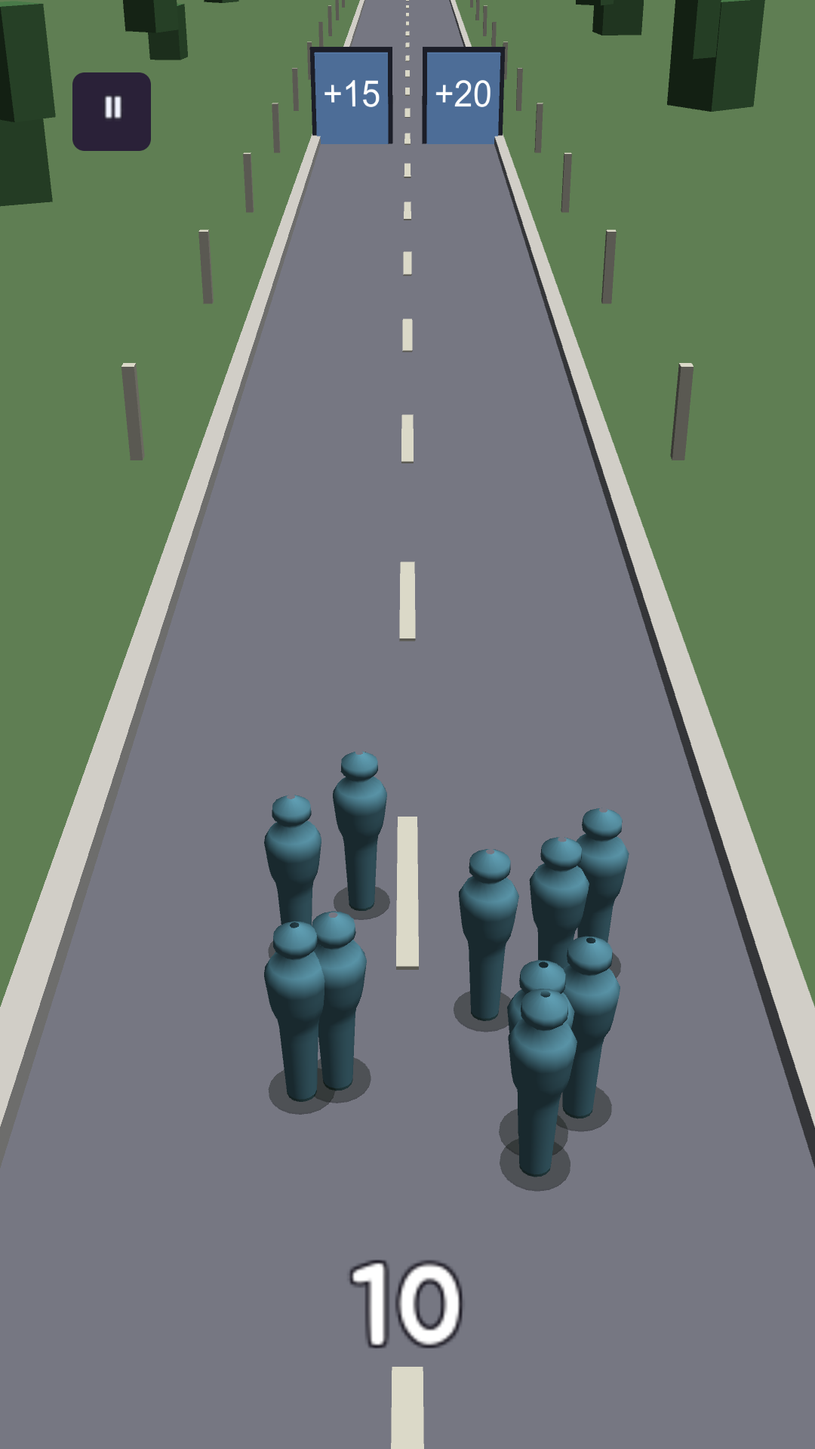
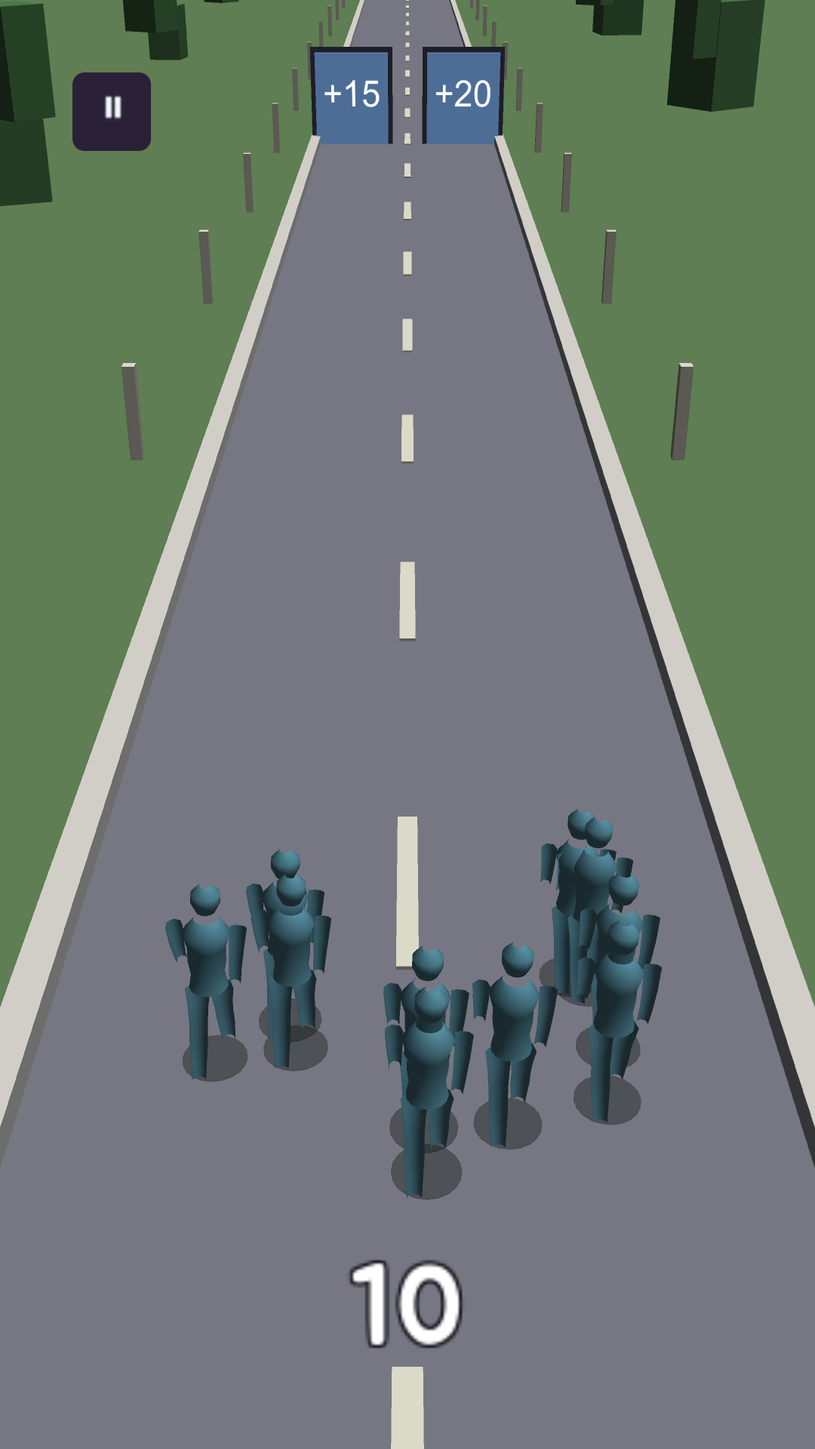
feat(m0): the stand-in can walk now — it has legs
세션 A 가 한 명을 6 배로 확대해서 잡았다: **팔도 다리도 없다.** 머리 → 어깨 →
한 덩어리 기둥이었다. 그러니 "걷는 게 안 보인다" 가 아니라 **걸을 수가 없었다** —
움직일 팔다리가 없으니 애니메이션을 붙일 자리 자체가 없었다.

원인은 골격이었다. 본 20 개가 **한 줄 사슬**(b0→b1→…)이라 가지를 칠 수 없었다.

## 가지 치는 골격

척추 5 · 다리 2×3 · 팔 2×3 · 여분 3 = **본 20 그대로**. 여분 셋은 정점이 안
묶이지만 커브는 준다 — 커브 없는 본은 평가되지 않아 측정이 더 싼 클립을 잰다(§7).

메시는 다섯 조각(몸통·머리·다리 둘·팔 둘)으로 짓고, **정점 282** 로 예산(300)
안이다. 처음엔 320 이 나왔다 — 반올림 때문에 한 번에 안 맞아서, 넘으면 배율을
줄여 다시 짓게 했다. M0_CROWD 의 상한이 그 수에 걸려 있어 짐작으로 둘 수 없다.

클립은 팔다리가 **엇갈린다**: 왼다리가 앞이면 오른팔이 앞. 그 교차 하나가
*걷는 것*과 *미끄러지는 것*을 가른다.

## 확대 사진이 세 번 답했다

① 군중 사진으로는 "뭔가 이상하다" 까지만 보였다. 확대하니 **팔이 몸통 안에**
   있었다 — 어깨를 x=±0.23 에 뒀는데 가슴 반지름이 0.25 였다. 밖으로 삐져나온
   조각이 화면에서는 *망토* 로 보였다. ±0.27 로 뺐다
② 몸통이 거의 일정한 반지름이라 **자루**였다. 허리를 줬다
③ 머리 반지름 0.15 = 지름 0.30 m 는 키 1.86 m 에 과했다. 0.125 로

그래서 `unit_closeup.png` 를 매번 찍는다. 군중 사진에서 사람은 늘 10 px 짜리라
**고쳤는지 망가뜨렸는지가 거기선 안 보인다.**

> 세션 A 가 먼저 화소로 재려 했다 — 0.12 초 간격 다섯 장에서 사람 화소가
> 110~150 % 바뀌었다. 그런데 그건 몸이 통째로 전진해서지 다리가 움직여서가
> 아니다. **그 측정으로는 둘을 못 가린다.** 확대 한 장이 바로 답했다.

첫 촬영은 떼 한가운데 2.4 m 앞에 뒀다가 **다른 사람 몸 속**이 나왔다 —
떼가 ±1.8 m 로 퍼져 있으니 그 안은 전부 누군가의 안이다. 길 옆 6.5 m 로 뺐고,
옆모습이 팔다리 교차를 보기에도 맞는 각도다.

5/5 통과 · 웹 빌드 10 MB

Changed region(s): [[0.1833, 0.5, 0.825, 0.8438]]

diff --git a/Assets/_Game/Scripts/Editor/M0Assets.cs b/Assets/_Game/Scripts/Editor/M0Assets.cs
@@ -63,12 +63,6 @@ namespace CrowdRunner.EditorTools
         }
 
         /// <summary>
-        /// 본 하나를 한 층으로 보는 **원통 사슬**. 층마다 고리 하나, 고리의 정점은 **그 층 본에
-        /// 100 % 로 묶는다** — 스킨닝 비용은 가중치의 **수**가 정하므로(정점당 1 개) 가중치 1 개가
-        /// 가장 싼 쪽이다. 즉 이 측정은 **실제보다 유리하다**: 출하 아트가 정점당 2~4 가중치를 쓰면
-        /// 더 비싸진다. 그래서 §4 의 통과선에 여유(절반 예산)를 둔 것이고, 그 여유의 일부가 이것이다.
-        /// </summary>
-        /// <summary>
         /// **길 표식과 발밑 그림자의 머티리얼을 에셋으로 굽는다.**
         ///
         /// 런타임에 `new Material(Shader.Find(...))` 로 만들고 `enableInstancing = true` 를
@@ -108,136 +102,250 @@ namespace CrowdRunner.EditorTools
             Debug.Log($"[M0] baked material {name}.mat instancing={mat.enableInstancing}");
         }
 
+        /// <summary>
+        /// **골격.** 전에는 본 20 개가 **한 줄 사슬**(b0→b1→…)이었다 — 그래서 각 본을 조금씩
+        /// 돌리면 *흔들리는 기둥*이 나왔고, **팔다리를 붙일 자리가 구조적으로 없었다.**
+        /// 세션 A 가 한 명을 6 배로 확대해서 잡았다: *"걷는 게 안 보이는 게 아니라 걸을 수가 없다."*
+        ///
+        /// 이제 가지를 친다 — 척추 · 다리 둘 · 팔 둘. **본 수는 20 그대로**라
+        /// `docs/M0_CROWD.md` 의 상한(정점 300/1,500 · 본 20)이 그대로 유효하다. 모양을 고치면서
+        /// 비용을 올리면 그 표를 다시 재야 하고, 그러면 아트 예산의 근거가 사라진다.
+        ///
+        /// 17~19 는 **일부러 남긴 여분**이다. 정점이 하나도 안 묶이지만 커브는 준다 — §7 의
+        /// 규칙이 *"커브 없는 본은 평가되지 않아 측정이 더 싼 클립을 잰다"* 이기 때문이다.
+        /// </summary>
+        struct BoneDef { public string name; public int parent; public Vector3 off; }
+
+        static readonly BoneDef[] Rig =
+        {
+            new BoneDef { name = "hips",   parent = -1, off = new Vector3(0f, 0.86f, 0f) },
+            new BoneDef { name = "spine",  parent = 0,  off = new Vector3(0f, 0.22f, 0f) },
+            new BoneDef { name = "chest",  parent = 1,  off = new Vector3(0f, 0.26f, 0f) },
+            new BoneDef { name = "neck",   parent = 2,  off = new Vector3(0f, 0.20f, 0f) },
+            new BoneDef { name = "head",   parent = 3,  off = new Vector3(0f, 0.14f, 0f) },
+
+            new BoneDef { name = "lhip",   parent = 0,  off = new Vector3(-0.10f, -0.04f, 0f) },
+            new BoneDef { name = "lknee",  parent = 5,  off = new Vector3(0f, -0.42f, 0f) },
+            new BoneDef { name = "lfoot",  parent = 6,  off = new Vector3(0f, -0.36f, 0f) },
+            new BoneDef { name = "rhip",   parent = 0,  off = new Vector3(0.10f, -0.04f, 0f) },
+            new BoneDef { name = "rknee",  parent = 8,  off = new Vector3(0f, -0.42f, 0f) },
+            new BoneDef { name = "rfoot",  parent = 9,  off = new Vector3(0f, -0.36f, 0f) },
+
+            // 어깨는 **몸통 반지름 밖**에 둔다. 0.23 이었는데 가슴 반지름이 0.25 라 팔이
+            // 몸 **안쪽**에 묻혔다 — 화면에서는 몸통 밖으로 삐져나온 조각이 *망토* 처럼 보였다
+            new BoneDef { name = "lsh",    parent = 2,  off = new Vector3(-0.27f, 0.12f, 0f) },
+            new BoneDef { name = "lelb",   parent = 11, off = new Vector3(0f, -0.28f, 0f) },
+            new BoneDef { name = "lhand",  parent = 12, off = new Vector3(0f, -0.26f, 0f) },
+            new BoneDef { name = "rsh",    parent = 2,  off = new Vector3(0.27f, 0.12f, 0f) },
+            new BoneDef { name = "relb",   parent = 14, off = new Vector3(0f, -0.28f, 0f) },
+            new BoneDef { name = "rhand",  parent = 15, off = new Vector3(0f, -0.26f, 0f) },
+
+            new BoneDef { name = "x0",     parent = 0,  off = Vector3.zero },
+            new BoneDef { name = "x1",     parent = 17, off = Vector3.zero },
+            new BoneDef { name = "x2",     parent = 18, off = Vector3.zero },
+        };
+
+        /// <summary>쉬는 자세에서 본이 서 있는 **월드 좌표**. 바인드포즈와 메시가 둘 다 이것을 쓴다</summary>
+        static Vector3[] RestPositions()
+        {
+            var p = new Vector3[Rig.Length];
+            for (int i = 0; i < Rig.Length; i++)
+                p[i] = Rig[i].parent < 0 ? Rig[i].off : p[Rig[i].parent] + Rig[i].off;
+            return p;
+        }
+
+        /// <summary>
+        /// 몸을 **다섯 조각**으로 짓는다 — 몸통 · 머리 · 다리 둘 · 팔 둘. 조각마다 고리를 쌓은
+        /// 원통이고, 고리의 정점은 **그 높이에 해당하는 본에 100 % 로** 묶는다 (정점당 가중치 1 —
+        /// 스킨닝 비용은 가중치의 수가 정한다).
+        ///
+        /// 목표 정점 수(`want`)에 맞춰 고리 수와 층 수를 **같은 비율로** 키운다. 정점은 둘의
+        /// 곱이므로 배율은 `sqrt(want / 기준)` 이다.
+        /// </summary>
         static Mesh BuildSkinnedMesh(int want, out string[] boneNames, out Matrix4x4[] binds)
         {
-            int ring = Mathf.Max(3, want / Bones);          // 층마다 정점 수
-            int rows = Bones;
-            var verts = new Vector3[ring * rows];
-            var norms = new Vector3[verts.Length];
-            var weights = new BoneWeight[verts.Length];
-            boneNames = new string[rows];
-            binds = new Matrix4x4[rows];
+            boneNames = new string[Rig.Length];
+            for (int i = 0; i < Rig.Length; i++) boneNames[i] = Rig[i].name;
+            var rest = RestPositions();
+            binds = new Matrix4x4[Rig.Length];
+            for (int i = 0; i < Rig.Length; i++) binds[i] = Matrix4x4.Translate(-rest[i]);
 
-            float height = 1.8f;
-            for (int r = 0; r < rows; r++)
+            var verts = new System.Collections.Generic.List<Vector3>(want + 64);
+            var weights = new System.Collections.Generic.List<BoneWeight>(want + 64);
+            var tris = new System.Collections.Generic.List<int>(want * 6);
+
+            // **예산을 넘기지 않는다.** 반올림 때문에 한 번에 안 맞는다 — 300 을 달라고 했는데
+            // 320 이 나왔고, `M0_CROWD` 의 상한(300/1,500)이 그 수에 걸려 있다. 넘으면 **줄여
+            // 다시 짓는다**: 짐작한 배율을 쓰는 것보다 세어 보는 쪽이 확실하다
+            float k = Mathf.Clamp(Mathf.Sqrt(want / 226f), 0.5f, 6f);
+            for (int tries = 0; tries < 20; tries++)
             {
-                float t = r / (float)(rows - 1);
-                float y = t * height;
-                float rad = Radius(t);
-                boneNames[r] = "b" + r;
-                binds[r] = Matrix4x4.TRS(new Vector3(0f, -y, 0f), Quaternion.identity, Vector3.one);
-                for (int c = 0; c < ring; c++)
-                {
-                    float a = c / (float)ring * Mathf.PI * 2f;
-                    int k = r * ring + c;
-                    verts[k] = new Vector3(Mathf.Cos(a) * rad, y, Mathf.Sin(a) * rad);
-                    norms[k] = new Vector3(Mathf.Cos(a), 0f, Mathf.Sin(a));   // 아래에서 다시 센다
-                    weights[k] = new BoneWeight { boneIndex0 = r, weight0 = 1f };
-                }
-            }
+                verts.Clear(); weights.Clear(); tris.Clear();
+                float kk = k;
+                int R(int n) => Mathf.Max(4, Mathf.RoundToInt(n * kk));
 
-            var tris = new System.Collections.Generic.List<int>((rows - 1) * ring * 6);
-            for (int r = 0; r < rows - 1; r++)
-                for (int c = 0; c < ring; c++)
+                // 몸통 — 골반에서 목까지. 어깨에서 가장 넓다
+                Part(verts, weights, tris, R(12), R(5), rest[0], rest[3],
+                     new[] { 0, 0, 1, 2, 3 }, new[] { 0.17f, 0.145f, 0.165f, 0.205f, 0.105f });
+                // 머리 — 목 위의 공
+                Part(verts, weights, tris, R(12), R(4), rest[4] + new Vector3(0f, -0.06f, 0f),
+                     rest[4] + new Vector3(0f, 0.20f, 0f),
+                     new[] { 4, 4, 4, 4 }, new[] { 0.085f, 0.125f, 0.125f, 0.05f });
+                // 다리 둘 — 엉덩이에서 발까지
+                for (int sgn = 0; sgn < 2; sgn++)
                 {
-                    int c2 = (c + 1) % ring;
-                    int a = r * ring + c, b = r * ring + c2, d = (r + 1) * ring + c, e = (r + 1) * ring + c2;
-                    tris.Add(a); tris.Add(d); tris.Add(b);
-                    tris.Add(b); tris.Add(d); tris.Add(e);
+                    int h = sgn == 0 ? 5 : 8;
+                    Part(verts, weights, tris, R(7), R(5), rest[h], rest[h + 2] + new Vector3(0f, -0.04f, 0f),
+                         new[] { h, h, h + 1, h + 1, h + 2 }, new[] { 0.11f, 0.09f, 0.08f, 0.07f, 0.06f });
                 }
+                // 팔 둘 — 어깨에서 손까지
+                for (int sgn = 0; sgn < 2; sgn++)
+                {
+                    int sh = sgn == 0 ? 11 : 14;
+                    Part(verts, weights, tris, R(6), R(4), rest[sh], rest[sh + 2] + new Vector3(0f, -0.04f, 0f),
+                         new[] { sh, sh, sh + 1, sh + 2 }, new[] { 0.075f, 0.065f, 0.055f, 0.05f });
+                }
+
+                if (verts.Count <= want) break;
+                k *= 0.96f;
+            }
+            if (verts.Count > want)
+                Debug.LogError($"[M0] 정점이 {verts.Count} 로 예산 {want} 를 넘는다 — M0 표의 상한이 깨진다");
 
             var m = new Mesh { name = "standin" };
             m.indexFormat = UnityEngine.Rendering.IndexFormat.UInt16;
-            m.vertices = verts; m.normals = norms; m.boneWeights = weights;
-            m.triangles = tris.ToArray();
-            // **법선을 다시 센다.** 위에서 넣은 것은 전부 **수평**(`y = 0`)이다. 그런데 셰이더의
-            // 빛은 위에서 내려오므로(`(0.3, 1.0, -0.2)`), 수평 법선은 어디서나 `dot ≈ 0.3` 이고
-            // **몸 전체가 가장 어두운 값**으로 칠해진다. 첫 게임 화면에서 군중이 커피콩처럼
-            // 보인 것의 절반이 이것이었다 — 실루엣만 고쳤으면 모양은 사람인데 여전히 까맸다.
-            //
-            // 측정에는 영향이 없다: 법선은 굽는 쪽이 아니라 원본 메시의 것을 셰이더가 그대로
-            // 쓰고(`CrowdVat` 주석), 정점 수도 본 수도 그대로다
+            m.SetVertices(verts);
+            m.boneWeights = weights.ToArray();
+            m.SetTriangles(tris, 0);
+            // 법선은 **수평이 아니라** 실제 면에서 센다. 전부 수평이면 위에서 내려오는 빛과
+            // 늘 같은 각이라 **몸 전체가 가장 어두운 값**으로 칠해진다 (2026-10-09 에 겪었다)
             m.RecalculateNormals();
             m.bindposes = binds;
             m.RecalculateBounds();
             return m;
         }
 
-        /// <summary>
-        /// **사람으로 읽히는 옆모습.** 전에는 `Lerp(0.16, 0.26, sin(t·π))` — 허리에서 굵고
-        /// 위아래로 가늘어지는 **방추형**이었고, 화면에서 커피콩으로 보였다. 머리가 없으면
-        /// 사람으로 안 읽힌다. 그게 전부다.
-        ///
-        /// **정점 수도 본 수도 안 바뀐다** — 자리만 옮긴다. 그래서 `docs/M0_CROWD.md` 의
-        /// 측정치(방식 B · 저폴리 300 정점 · 상한 400)는 **그대로 유효하다.** 모양을 고치면서
-        /// 비용을 같이 올리면 그 표를 다시 재야 하고, 그러면 아트 예산의 근거가 사라진다.
-        ///
-        /// 행이 20 개(= 본 수)라 한 행이 키의 5 % 다. 머리·목·어깨가 그 해상도에 들어가도록
-        /// 구간을 잡았다 — 더 잘게 나누면 정점이 늘어난다.
-        /// </summary>
-        static float Radius(float t)
+        /// <summary>원통 한 조각. `boneOf`/`radius` 는 층을 **비율로** 읽으므로 길이가 달라도 된다</summary>
+        static void Part(System.Collections.Generic.List<Vector3> verts,
+                         System.Collections.Generic.List<BoneWeight> weights,
+                         System.Collections.Generic.List<int> tris,
+                         int ring, int rows, Vector3 from, Vector3 to, int[] boneOf, float[] radius)
         {
-            if (t < 0.46f) return Mathf.Lerp(0.13f, 0.17f, t / 0.46f);          // 다리
-            if (t < 0.54f) return Mathf.Lerp(0.17f, 0.23f, (t - 0.46f) / 0.08f); // 골반
-            if (t < 0.74f) return Mathf.Lerp(0.23f, 0.27f, (t - 0.54f) / 0.20f); // 몸통
-            if (t < 0.80f) return Mathf.Lerp(0.27f, 0.21f, (t - 0.74f) / 0.06f); // 어깨
-            if (t < 0.85f) return 0.10f;                                          // 목
-            // 머리 — 구에 가깝게. 정수리에서 0 으로 닫지 않는다 (한 행이 5 % 라 각져 보인다)
-            float u = (t - 0.85f) / 0.15f;                                        // 0..1
-            return 0.19f * Mathf.Sqrt(Mathf.Max(0.04f, 1f - (u - 0.45f) * (u - 0.45f) / 0.30f));
+            ring = Mathf.Max(4, ring);
+            rows = Mathf.Max(2, rows);
+            int baseIndex = verts.Count;
+            for (int r = 0; r < rows; r++)
+            {
+                float t = rows == 1 ? 0f : r / (float)(rows - 1);
+                var c = Vector3.Lerp(from, to, t);
+                int b = boneOf[Mathf.Clamp(Mathf.RoundToInt(t * (boneOf.Length - 1)), 0, boneOf.Length - 1)];
+                float rad = radius[Mathf.Clamp(Mathf.RoundToInt(t * (radius.Length - 1)), 0, radius.Length - 1)];
+                for (int i = 0; i < ring; i++)
+                {
+                    float a = i / (float)ring * Mathf.PI * 2f;
+                    verts.Add(c + new Vector3(Mathf.Cos(a) * rad, 0f, Mathf.Sin(a) * rad));
+                    weights.Add(new BoneWeight { boneIndex0 = b, weight0 = 1f });
+                }
+            }
+            for (int r = 0; r < rows - 1; r++)
+                for (int i = 0; i < ring; i++)
+                {
+                    int i2 = (i + 1) % ring;
+                    int a = baseIndex + r * ring + i, b2 = baseIndex + r * ring + i2;
+                    int d = baseIndex + (r + 1) * ring + i, e = baseIndex + (r + 1) * ring + i2;
+                    tris.Add(a); tris.Add(d); tris.Add(b2);
+                    tris.Add(b2); tris.Add(d); tris.Add(e);
+                }
         }
 
         /// <summary>
-        /// 달리는 클립 — 본마다 **같은 주기, 다른 위상**으로 흔든다. 모양이 달리기처럼 보이는 것은
-        /// 중요하지 않다. 중요한 것은 **본 20 개 전부에 커브가 있는 것**이다: 커브가 없는 본은
-        /// 평가되지 않아서, 커브를 몇 개만 두면 측정이 **더 싼 클립**을 재게 된다.
+        /// 달리는 클립. 전에는 본 20 개를 **같은 주기, 다른 위상**으로 흔들었다 — 모양이
+        /// 달리기처럼 보이는 것은 중요하지 않다고 적어 뒀는데, **보이는 쪽이 중요해졌다.**
+        ///
+        /// 이제 팔다리가 **엇갈린다**: 왼다리가 앞이면 오른팔이 앞이다. 그 교차 하나가
+        /// *걷는 것*과 *미끄러지는 것*을 가른다.
+        ///
+        /// **본 20 개 전부에 커브를 준다** (여분 셋 포함) — 커브가 없는 본은 평가되지 않아
+        /// 측정이 **더 싼 클립**을 재게 된다 (`M0_CROWD` §7).
         /// </summary>
         static AnimationClip BuildRunClip(string[] boneNames)
         {
             var clip = new AnimationClip { name = "standin_run", frameRate = 30f };
             clip.legacy = false;
-            for (int i = 0; i < boneNames.Length; i++)
+            const float Len = 0.8f;
+
+            void Curve(int bone, System.Func<float, float> fx, System.Func<float, float> fz)
             {
-                string path = Path(boneNames, i);
-                float ph = i / (float)boneNames.Length * Mathf.PI * 2f;
                 var cx = new AnimationCurve();
                 var cz = new AnimationCurve();
                 for (int f = 0; f <= 16; f++)
                 {
                     float t = f / 16f;
-                    float a = t * Mathf.PI * 2f + ph;
-                    cx.AddKey(t * 0.8f, Mathf.Sin(a) * 0.06f);
-                    cz.AddKey(t * 0.8f, Mathf.Cos(a) * 0.04f);
+                    cx.AddKey(t * Len, fx(t));
+                    cz.AddKey(t * Len, fz(t));
                 }
+                string path = Path(bone);
                 clip.SetCurve(path, typeof(Transform), "localEulerAngles.x", cx);
                 clip.SetCurve(path, typeof(Transform), "localEulerAngles.z", cz);
             }
-            var s = new AnimationClipSettings { loopTime = true };
-            AnimationUtility.SetAnimationClipSettings(clip, s);
+
+            float Sin(float t, float off) => Mathf.Sin((t + off) * Mathf.PI * 2f);
+
+            Curve(0, t => Sin(t, 0f) * 2.5f, t => 0f);                      // 골반이 조금 흔들린다
+            Curve(1, t => 3f, t => Sin(t, 0.25f) * 1.5f);                   // 살짝 앞으로 기운다
+            Curve(2, t => 0f, t => Sin(t, 0.5f) * 2f);
+            Curve(3, t => Sin(t, 0.5f) * 2f, t => 0f);
+            Curve(4, t => Sin(t, 0.5f) * 2f, t => 0f);
+
+            // 다리 — 반 주기 엇갈림. 무릎은 **뒤로만** 접힌다
+            Curve(5, t => Sin(t, 0f) * 26f, t => 0f);
+            Curve(6, t => Mathf.Max(0f, -Sin(t, 0.15f)) * 42f, t => 0f);
+            Curve(7, t => Sin(t, 0.5f) * 10f, t => 0f);
+            Curve(8, t => Sin(t, 0.5f) * 26f, t => 0f);
+            Curve(9, t => Mathf.Max(0f, -Sin(t, 0.65f)) * 42f, t => 0f);
+            Curve(10, t => Sin(t, 0f) * 10f, t => 0f);
+
+            // 팔 — 다리와 **반대쪽**. 왼다리가 앞이면 오른팔이 앞이다
+            Curve(11, t => Sin(t, 0.5f) * 22f, t => Sin(t, 0f) * 4f);
+            Curve(12, t => -18f - Mathf.Max(0f, Sin(t, 0.5f)) * 14f, t => 0f);
+            Curve(13, t => 0f, t => 0f);
+            Curve(14, t => Sin(t, 0f) * 22f, t => Sin(t, 0.5f) * 4f);
+            Curve(15, t => -18f - Mathf.Max(0f, Sin(t, 0f)) * 14f, t => 0f);
+            Curve(16, t => 0f, t => 0f);
+
+            // 여분 셋 — 정점은 안 묶였지만 **평가는 된다**
+            for (int i = 17; i < Rig.Length; i++)
+            {
+                int bi = i;
+                Curve(bi, t => Sin(t, bi * 0.1f) * 1f, t => 0f);
+            }
+
+            var set = new AnimationClipSettings { loopTime = true };
+            AnimationUtility.SetAnimationClipSettings(clip, set);
             return clip;
         }
 
-        /// <summary>본은 사슬이므로 경로가 `b0/b1/b2/...` 로 깊어진다 — 깊이도 평가 비용이다</summary>
-        static string Path(string[] names, int i)
+        /// <summary>본까지의 경로. 가지가 생겼으므로 **부모를 거슬러** 만든다 (전에는 한 줄이라 0..i 였다)</summary>
+        static string Path(int i)
         {
-            var sb = new System.Text.StringBuilder();
-            for (int k = 0; k <= i; k++) { if (k > 0) sb.Append('/'); sb.Append(names[k]); }
-            return sb.ToString();
+            var parts = new System.Collections.Generic.List<string>();
+            for (int k = i; k >= 0; k = Rig[k].parent) parts.Add(Rig[k].name);
+            parts.Reverse();
+            return string.Join("/", parts);
         }
 
         static GameObject BuildPrefab(Mesh mesh, Matrix4x4[] binds, string[] boneNames, AnimatorController ctrl, string suffix)
         {
             var root = new GameObject("StandIn");
-            var bones = new Transform[boneNames.Length];
-            Transform parent = root.transform;
-            float step = 1.8f / (boneNames.Length - 1);
-            for (int i = 0; i < boneNames.Length; i++)
+            var bones = new Transform[Rig.Length];
+            for (int i = 0; i < Rig.Length; i++)
             {
-                var go = new GameObject(boneNames[i]);
-                go.transform.SetParent(parent, false);
-                go.transform.localPosition = i == 0 ? Vector3.zero : new Vector3(0f, step, 0f);
+                var go = new GameObject(Rig[i].name);
+                // **표가 정한 자리에 둔다.** 메시의 바인드포즈가 같은 표에서 나왔으므로
+                // 둘이 어긋날 수가 없다 — 전에는 본이 일정 간격으로 쌓이고 메시는 따로 계산했다
+                go.transform.SetParent(Rig[i].parent < 0 ? root.transform : bones[Rig[i].parent], false);
+                go.transform.localPosition = Rig[i].off;
                 bones[i] = go.transform;
-                parent = go.transform;
             }
             var smr = root.AddComponent<SkinnedMeshRenderer>();
             smr.sharedMesh = mesh;

diff --git a/Assets/Tests/PlayMode/MetaShotTests.cs b/Assets/Tests/PlayMode/MetaShotTests.cs
@@ -392,6 +392,41 @@ namespace CrowdRunner.Tests
             }
         }
 
+        /// <summary>
+        /// **한 명을 크게 찍는다** — 군중 사진으로는 사람이 사람인지 알 수 없다.
+        ///
+        /// 세션 A 가 한 명을 6 배로 확대해서 *"팔도 다리도 없다"* 를 잡았다. 그 전에는 0.12 초
+        /// 간격 다섯 장을 화소로 비교했는데 110~150 % 가 바뀌었다 — 그런데 그건 **몸이 통째로
+        /// 전진**해서지 다리가 움직여서가 아니었다. **그 측정으로는 둘을 못 가린다.**
+        ///
+        /// 확대 한 장이 바로 답했다. 그래서 그 한 장을 매번 찍는다 — 군중 사진에서 사람은 늘
+        /// 10 px 짜리라, **고쳤는지 망가뜨렸는지가 거기선 안 보인다.**
+        /// </summary>
+        void ShotOneUnit(LevelRunner runner)
+        {
+            var cam = Camera.main;
+            if (cam == null || runner.Sim == null) return;
+            var keepPos = cam.transform.position;
+            var keepRot = cam.transform.rotation;
+            float keepFov = cam.fieldOfView;
+
+            // **옆에서, 떼 밖에서.** 처음엔 떼 한가운데 2.4 m 앞에 뒀더니 **다른 사람 몸 속**이
+            // 나왔다 — 떼가 ±1.8 m 로 퍼져 있으니 그 안은 전부 누군가의 안이다.
+            //
+            // 옆에서 보는 이유가 하나 더 있다: **팔다리 교차는 옆모습에서 가장 잘 보인다.**
+            // 뒤에서 보면 앞뒤로 흔드는 것이 전부 겹쳐 보인다
+            var target = new Vector3(runner.Sim.X, 0.95f, runner.Sim.Z + 0.6f);
+            cam.transform.position = new Vector3(runner.Sim.X + 6.5f, 1.45f, runner.Sim.Z - 0.4f);
+            cam.transform.rotation = Quaternion.LookRotation(target - cam.transform.position);
+            cam.fieldOfView = 26f;
+            ShotWorld("unit_closeup", runner);
+
+            // **되돌린다** — 안 되돌리면 뒤이어 찍는 게임 화면이 이 구도로 나간다
+            cam.transform.position = keepPos;
+            cam.transform.rotation = keepRot;
+            cam.fieldOfView = keepFov;
+        }
+
         /// <summary>3D 카메라를 뜬다. UI 는 뺀다 (HUD 가 덮으면 게임이 안 보인다)</summary>
         float ShotWorld(string name, LevelRunner runner)
         {
@@ -768,6 +803,7 @@ namespace CrowdRunner.Tests
             var runner = GameBoot.Runner;
             Assert.IsNotNull(runner.Sim, "1-1 을 못 띄웠다 — " + runner.Error);
             float share = ShotWorld("game_opening", runner);
+            ShotOneUnit(runner);
             Debug.Log($"[CR-TEST] 시작 화면: 병력 {runner.Sim.Units} · z {runner.Sim.Z:F0} · 그려진 화소 {share:F1}%");
         }
 
